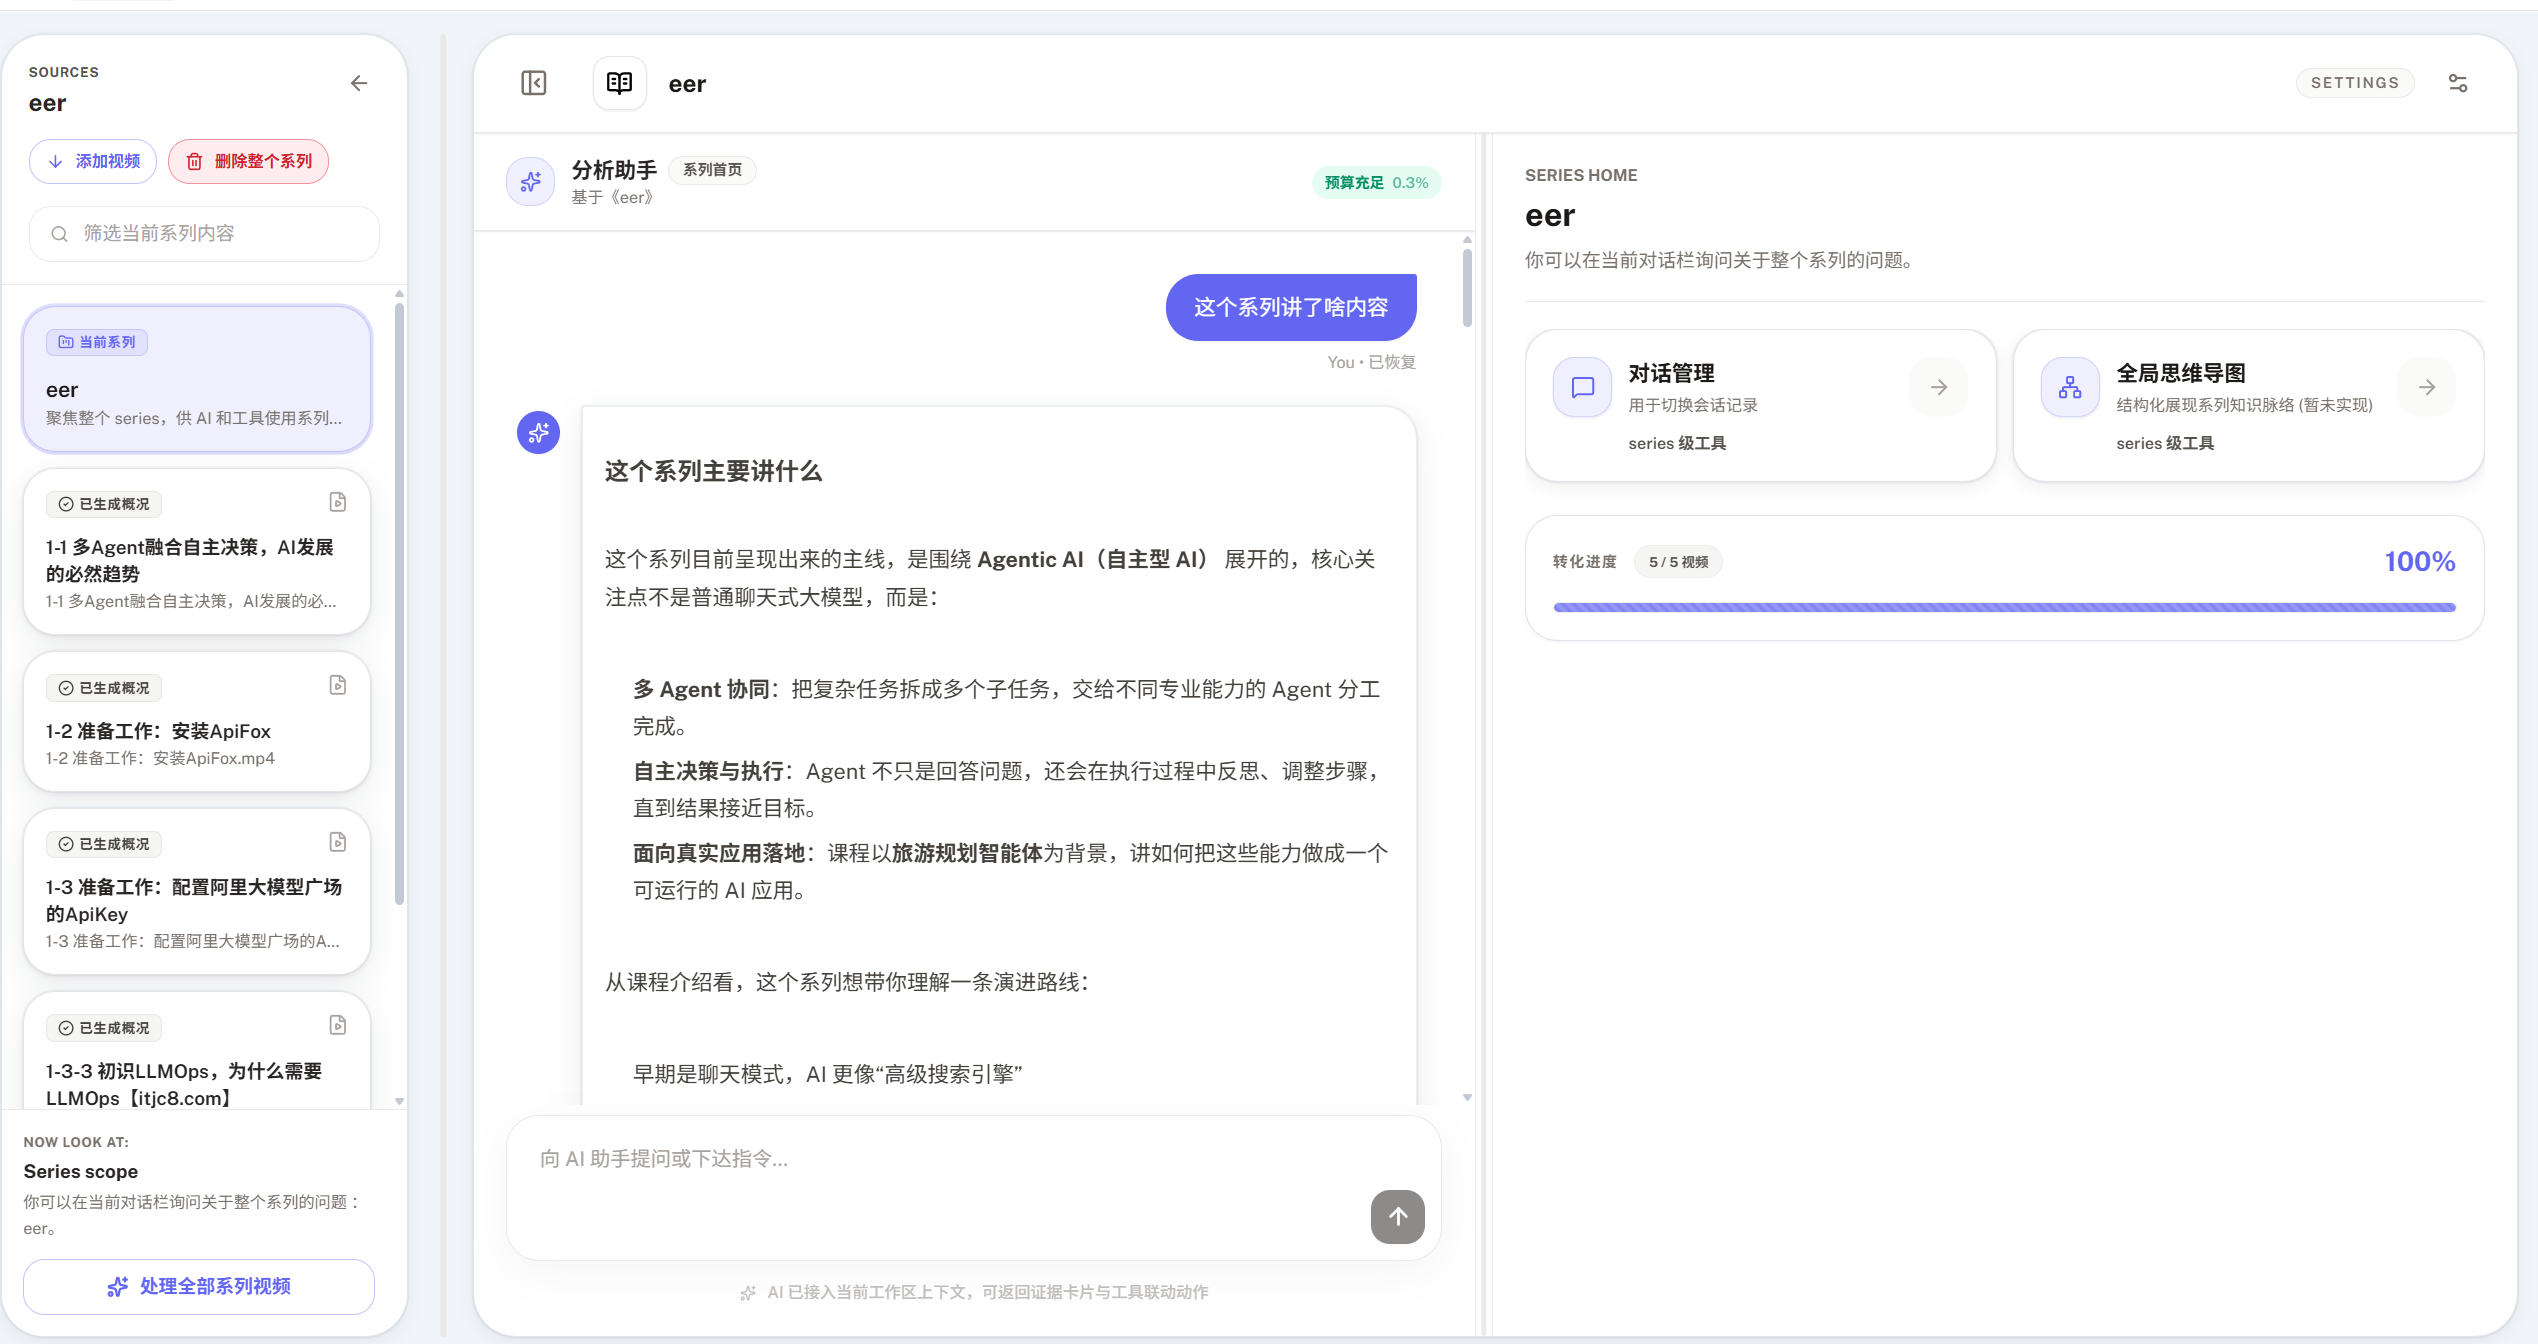
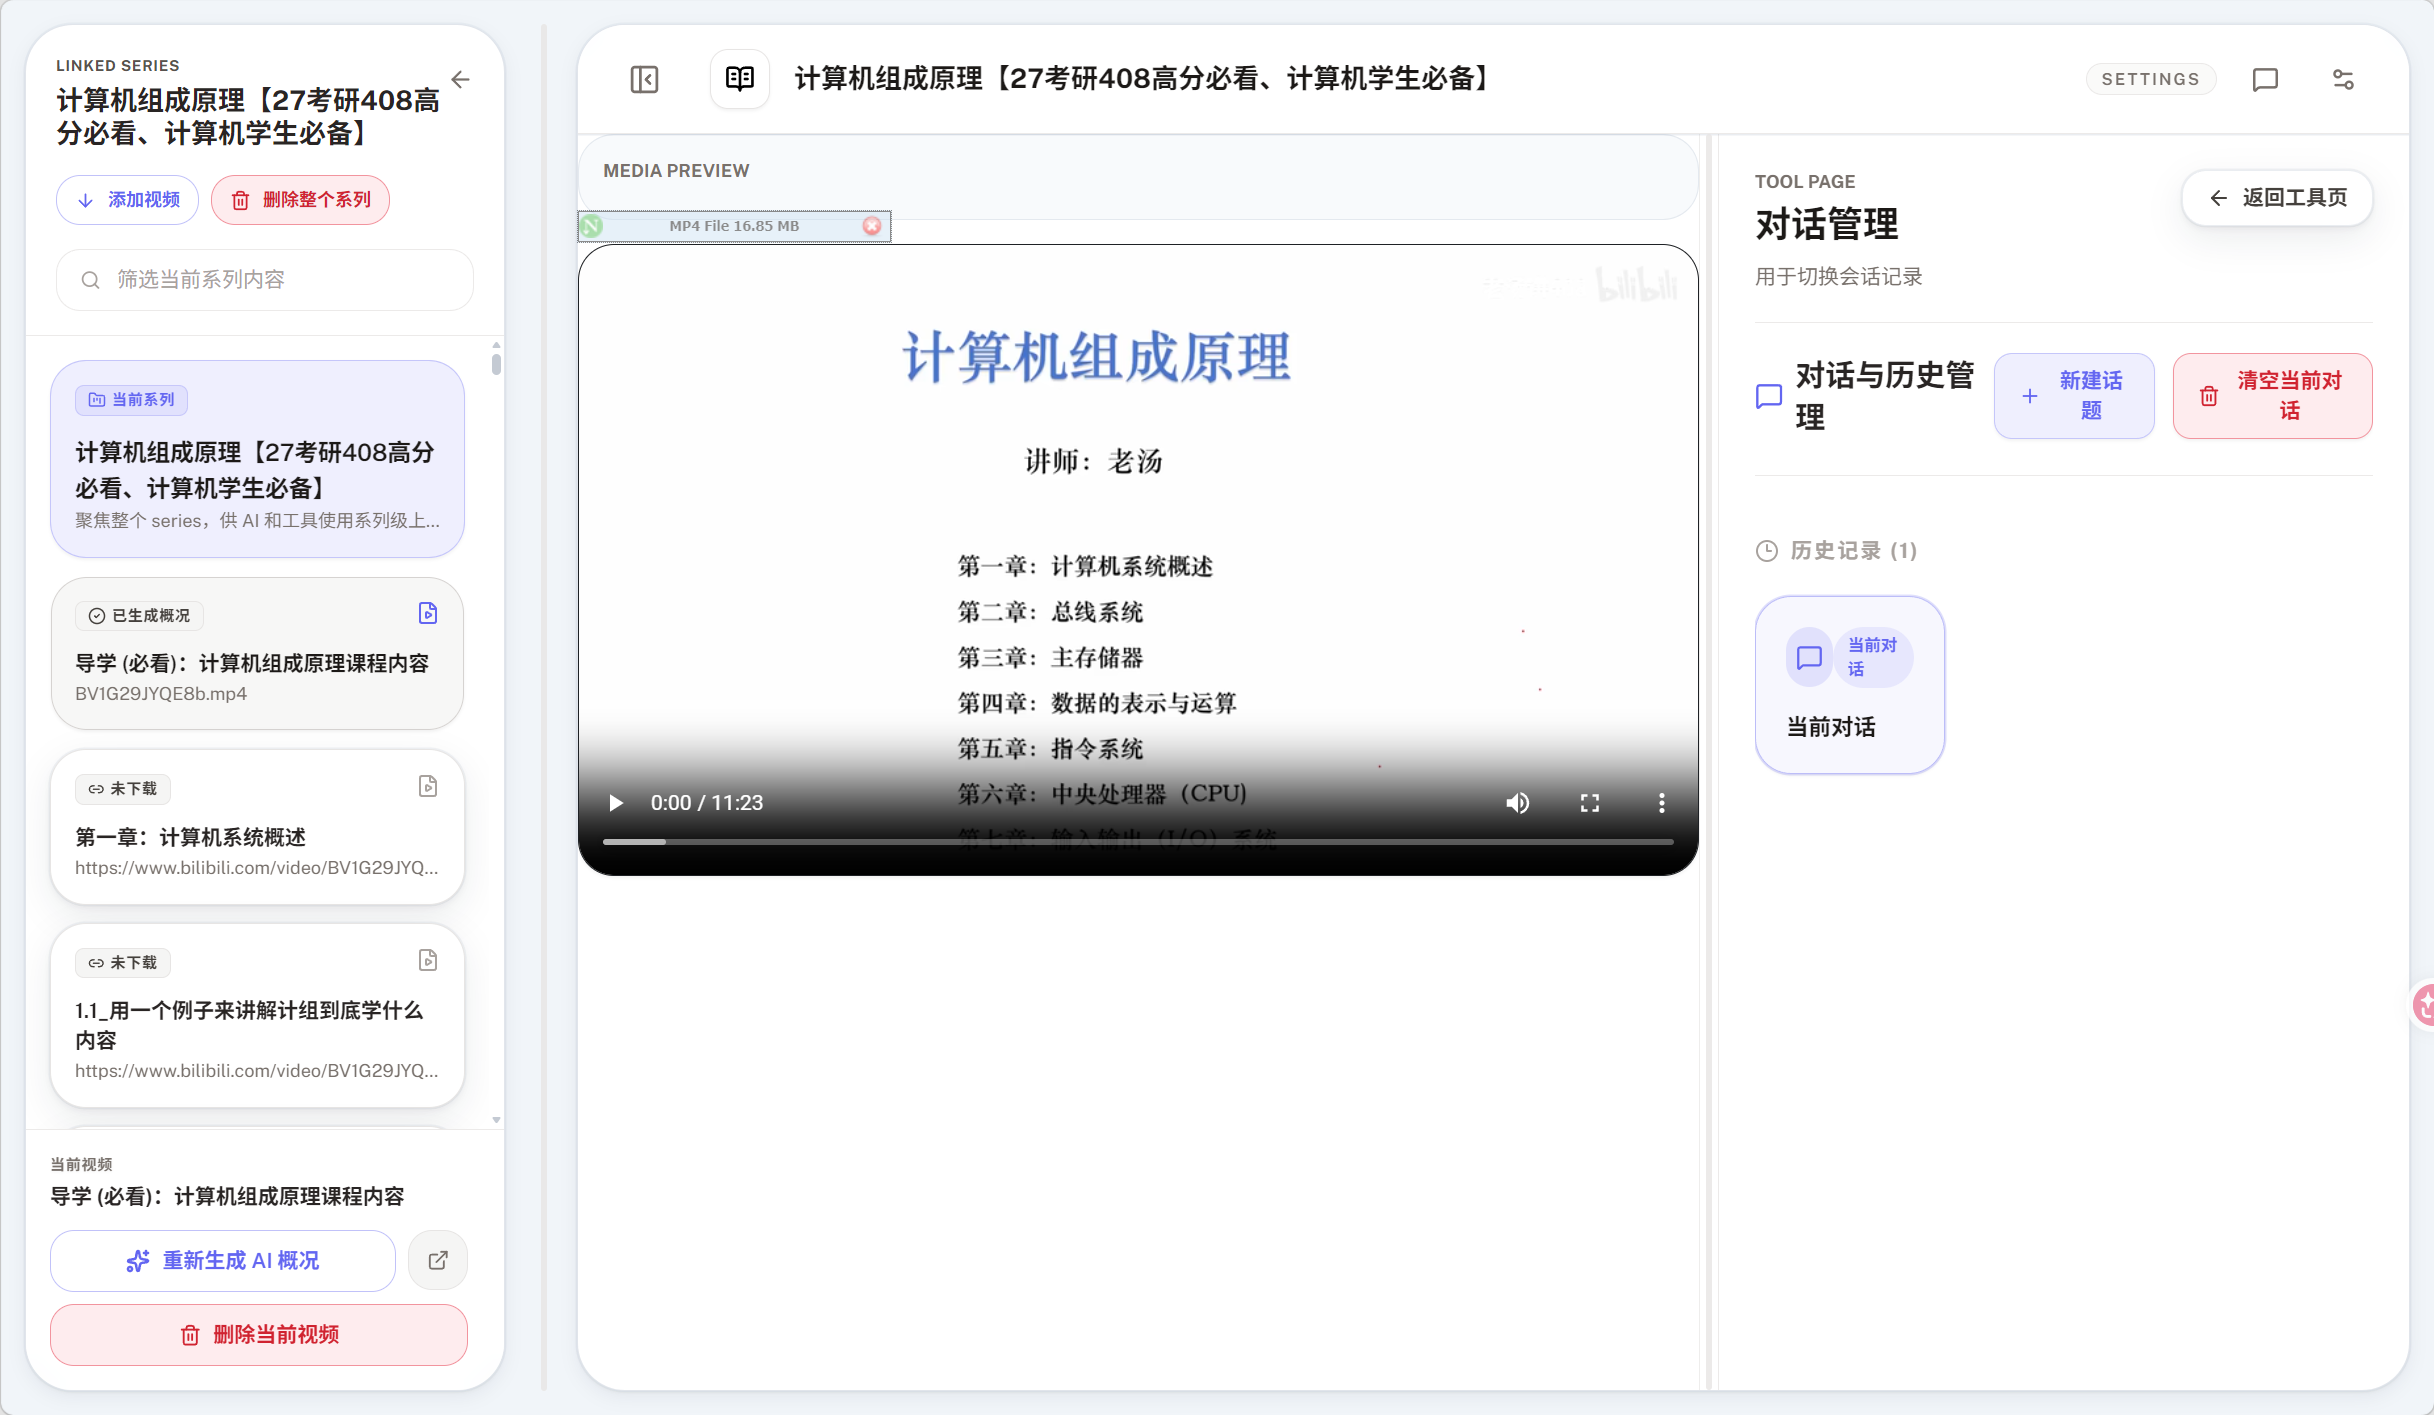
更新readme

diff --git a/README.md b/README.md
@@ -31,7 +31,7 @@
 
 在 AI 概况里，**点击章节卡片**或展开后的**转写段**即可直接跳到视频对应时间并自动播放。
 
-<img src="./assets/showcase-video-overview.png" alt="视频 AI 概况页面" />
+<img src="assets/showcase-video-overview.gif" alt="视频 AI 概况页面" />
 
 ### 视频播放器
 